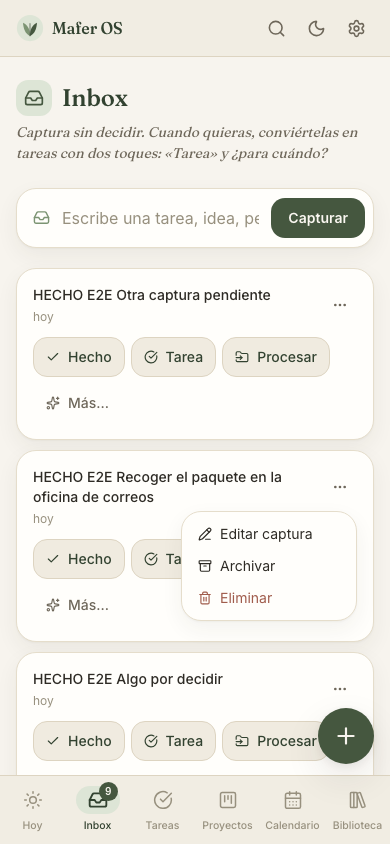
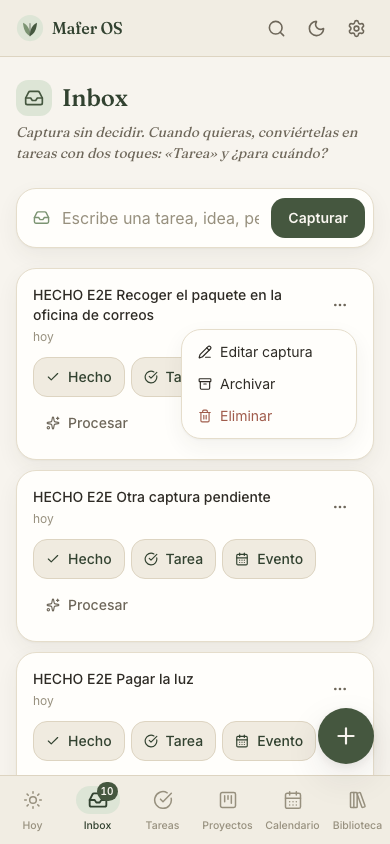
fix(inbox): vuelve «Evento» y «Más…» pasa a «Procesar»
Revierte en parte fa62d33. La fila queda ✓ Hecho · Tarea · Evento · Procesar:
- Evento recupera su comportamiento y su ícono: abre el cuadro con Evento ya
  elegido y sus campos.
- «Más…» se llama ahora «Procesar», sin cambiar lo que hace: abre el cuadro
  con la sugerencia de tipo de la captura, si la tiene.
Prueba de z24 ajustada a los dos comportamientos; capturas actualizadas.

diff --git a/e2e/z24-inbox-hecho.spec.ts b/e2e/z24-inbox-hecho.spec.ts
@@ -169,15 +169,24 @@ test("Tarea, Archivar y Eliminar siguen como antes y no suman", async ({ page })
   expect((await credits()).length).toBe(antes);
 });
 
-test("Procesar abre el cuadro de procesar sin ningún tipo elegido", async ({ page }) => {
-  await captura("hecho-procesar", "Algo por decidir");
+test("Evento abre el cuadro con Evento ya elegido; Procesar usa la sugerencia de la captura", async ({ page }) => {
+  await captura("hecho-evento", "Cena con Ana");
+  await run(`INSERT INTO inbox_items (id, content, note, type_hint, created_at) VALUES ('hecho-sugerida', '${P} Leer sobre fermentos', '', 'idea', '${now}')`);
   await login(page);
   await page.goto("/inbox");
-  await tarjeta(page, "Algo por decidir").getByTestId("inbox-procesar").click();
   const panel = page.getByTestId("process-panel");
+
+  await tarjeta(page, "Cena con Ana").getByTestId("inbox-to-event").click();
   await expect(panel).toBeVisible();
-  await expect(panel.getByRole("radio", { checked: true })).toHaveCount(0);
-  await expect(panel.getByTestId("type-evento")).toHaveAttribute("aria-checked", "false");
+  await expect(panel.getByTestId("type-evento")).toHaveAttribute("aria-checked", "true");
+  await panel.getByRole("button", { name: "Cerrar" }).click();
+  await expect(panel).toHaveCount(0);
+
+  const sugerida = tarjeta(page, "Leer sobre fermentos");
+  await expect(sugerida.getByTestId("inbox-process")).toHaveText("Procesar");
+  await sugerida.getByTestId("inbox-process").click();
+  await expect(panel).toBeVisible();
+  await expect(panel.getByTestId("type-idea")).toHaveAttribute("aria-checked", "true");
 });
 
 test("Deshacer no revierte nada si la tarea cambió después", async ({ page }) => {
@@ -269,7 +278,7 @@ test("iPhone: ✓ Hecho cabe junto a las demás salidas, claro y oscuro", async 
   await expect(card.getByTestId("inbox-done")).toBeVisible();
   // las cuatro salidas caben dentro de la tarjeta, sin desbordarla
   const box = (await card.boundingBox())!;
-  for (const id of ["inbox-done", "inbox-to-task", "inbox-procesar", "inbox-process"]) {
+  for (const id of ["inbox-done", "inbox-to-task", "inbox-to-event", "inbox-process"]) {
     const b = (await card.getByTestId(id).boundingBox())!;
     expect(b.x).toBeGreaterThanOrEqual(box.x);
     expect(b.x + b.width).toBeLessThanOrEqual(box.x + box.width);

diff --git a/src/components/inbox/inbox-list.tsx b/src/components/inbox/inbox-list.tsx
@@ -17,7 +17,6 @@ import {
   CalendarDays,
   MoreHorizontal,
   PencilLine,
-  FolderInput,
 } from "lucide-react";
 import {
   convertInboxItem,
@@ -280,10 +279,10 @@ function InboxCard({
           type="button"
           className="btn btn-secondary !py-1.5 !px-3 text-sm"
           disabled={pending}
-          onClick={() => onProcess(null)}
-          data-testid="inbox-procesar"
+          onClick={() => onProcess("evento")}
+          data-testid="inbox-to-event"
         >
-          <FolderInput size={14} aria-hidden /> Procesar
+          <CalendarDays size={14} aria-hidden /> Evento
         </button>
         <button
           type="button"
@@ -292,7 +291,7 @@ function InboxCard({
           onClick={() => onProcess(item.typeHint || null)}
           data-testid="inbox-process"
         >
-          <Sparkles size={14} aria-hidden /> Más…
+          <Sparkles size={14} aria-hidden /> Procesar
         </button>
       </div>
       {dates && (
